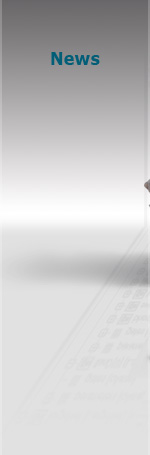
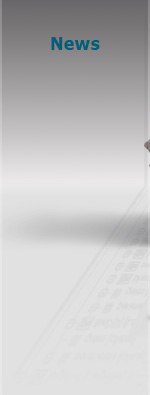
Chenged to fit into 1024x768
git-svn-id: https://omnest.com/svn/omnestweb/trunk@68 33270d1c-0d19-0410-869e-e3a17401575d

diff --git a/index.php b/index.php
@@ -23,27 +23,25 @@
 </head>
 
 <body>
-<table width="100%" border="0" cellspacing="0" cellpadding="0">
-<tr>
-	<td width="50%"></td>
-	<td width="850" background="images/front_global_back.jpg"><img src="images/spacer.gif" width="850" height="20" alt=""><br></td>
-	<td width="50%"></td>
-</tr>
-</table>
 
 <table width="100%" height="100%" border="0" cellspacing="0" cellpadding="0">
-<tr>
+    <tr>
+    	<td width="50%"></td>
+    	<td width="850" background="images/front_global_back.jpg"><img src="images/spacer.gif" width="850" height="5" alt=""></td>
+    	<td width="50%"></td>
+    </tr>
 
+    <tr>
 	<!-- Left Side -->
-	<td width="50%">
+	<td valign="top" width="50%">
 		<table width="100%" border="0" cellspacing="0" cellpadding="0">
 			<tr>
-				<td valign="middle" background="images/front_sides_back.jpg"><img src="images/spacer.gif" width="1" height="720" alt=""><br></td>
+				<td background="images/front_sides_back.jpg"><img src="images/spacer.gif" width="1" height="600" alt=""><br></td>
 			</tr>
 		</table>
 	</td>
 
-	<td valign="middle" background="images/front_global_back.jpg">
+	<td valign="top" background="images/front_global_back.jpg">
 
 		<table width="100%" border="0" cellspacing="0" cellpadding="0">
 
@@ -99,7 +97,7 @@
 		<tr>
 
 			<!-- Left Margin -->
-			<td width="25" background="images/front_mid_back.jpg"><img src="images/front_mid_left_margin.jpg" width="25" height="455" alt=""><br></td>
+			<td width="25" background="images/front_mid_back.jpg"><img src="images/front_mid_left_margin.jpg" width="25" height="395" alt=""><br></td>
 
 			<!-- Logo & News -->
 			<td width="150" background="images/front_news_back.jpg" valign="top">
@@ -108,7 +106,7 @@
 			</td>
 
 			<!-- Shell -->
-			<td width="260" background="images/front_mid_back.jpg"><img src="images/front_shell.jpg" width="260" height="455" alt=""></td>
+			<td width="260" background="images/front_mid_back.jpg"><img src="images/front_shell.jpg" width="260" height="395" alt=""></td>
 
 			<!-- Text -->
 			<td width="390" background="images/front_text_back.jpg">
@@ -144,7 +142,7 @@
 			<td width="260"></td>
 
 			<!-- Slogen -->
-			<td width="390"><img src="images/front_bottom.gif" width="390" height="110" alt=""><br></td>
+			<td width="390"><img src="images/front_bottom.gif" width="390" height="40" alt=""><br></td>
 
 			<!-- Right Margin -->
 			<td width="25"></td>
@@ -157,10 +155,10 @@
 	</td>
 
 	<!-- Right Side -->
-	<td width="50%">
+	<td valign="top" width="50%">
 		<table width="100%" border="0" cellspacing="0" cellpadding="0">
 			<tr>
-				<td valign="middle" background="images/front_sides_back.jpg"><img src="images/spacer.gif" width="1" height="720" alt=""><br></td>
+				<td background="images/front_sides_back.jpg"><img src="images/spacer.gif" width="1" height="600" alt=""><br></td>
 			</tr>
 		</table>
 	</td>

diff --git a/show.php b/show.php
@@ -23,16 +23,21 @@
 </head>
 
 <body>
-
+<!--
 <table width="100%" border="0" cellspacing="0" cellpadding="0">
+    <tr>
+    	<td width="50%"></td>
+    	<td width="850" background="images/front_global_back.jpg"><img src="images/spacer.gif" width="850" height="5" alt=""><br></td>
+    	<td width="50%"></td>
+    </tr>
+</table>
+-->
+<table width="100%" height="100%" border="0" cellspacing="0" cellpadding="0">
 <tr>
 	<td width="50%"></td>
-	<td width="850" background="images/front_global_back.jpg"><img src="images/spacer.gif" width="850" height="20" alt=""><br></td>
+    	<td colspan="5" width="850" background="images/front_global_back.jpg"><img src="images/spacer.gif" width="850" height="5" alt=""></td>
 	<td width="50%"></td>
 </tr>
-</table>
-
-<table width="100%" border="0" cellspacing="0" cellpadding="0">
 
 <!-- Top : Start -->
 <tr>
@@ -93,7 +98,7 @@
 <!-- Menu : End -->
 
 <!-- Body : Start -->
-<tr>
+<tr height="100%">
 
 	<!-- Left Side -->
 	<td width="50%" bgcolor="#E5E5E5" valign="top">
@@ -142,7 +147,7 @@
 	<td width="50%"></td>
 
 	<!-- Middle -->
-	<td width="850" height="110" colspan="5" align="center" valign="top" background="images/front_global_back.jpg">
+	<td width="850" height="80" colspan="5" align="center" valign="top" background="images/front_global_back.jpg">
 		<font size="2" color="#C0C0C0" >Copyright &copy; 2004-2005 Omnest Global Inc.</font>
 
 	</td>

diff --git a/common/news.php b/common/news.php
@@ -40,7 +40,7 @@
 					Partnership with InfoTek Information Systems Co., Inc. of Taipei.<br>
 					</a>
 					</div>
-
+<!--
 					<img src="images/news_separator.gif" width="122" height="5" alt=""><br>
 					<div class="NewsDate">
 					May 1<sup>st</sup> 2004<br>
@@ -51,7 +51,7 @@
 					</a>
 					</div>
 
-<!--
+
 					<img src="images/news_separator.gif" width="122" height="5" alt=""><br>
 					<div class="NewsDate">
 					March 1<sup>st</sup> 2004<br>
